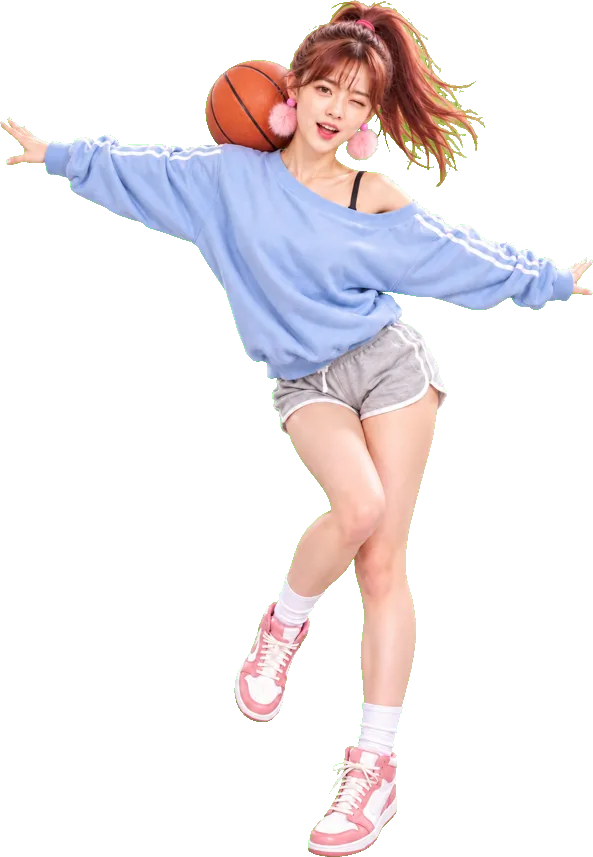
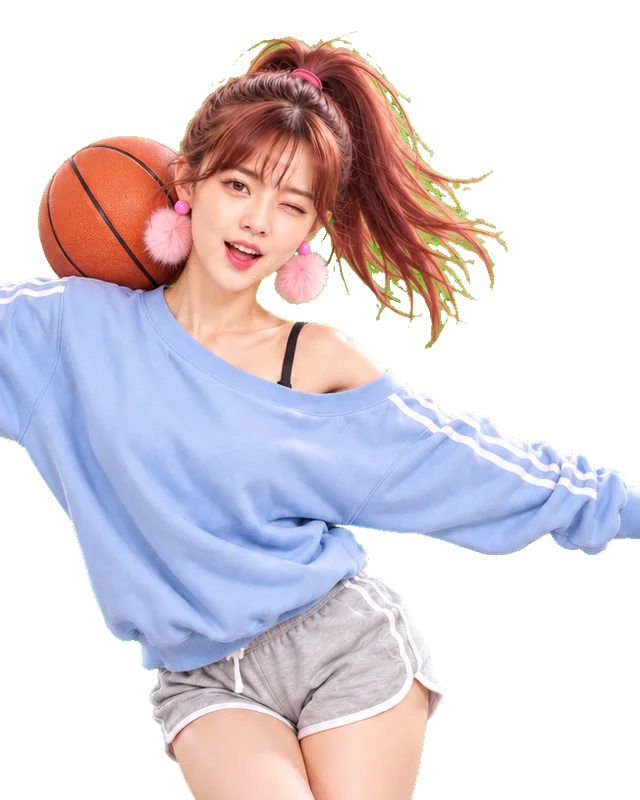
v0.4.4：選角卡改上半身特寫，臉看得清楚

diff --git a/index.html b/index.html
@@ -360,14 +360,15 @@
     .selBar .big { padding: 9px; font-size: 18px; } .selBar .big.sec { padding: 9px 14px; }
   }
 
-  /* ===== 選角卡：上面是真人風全身照（角色色底＋集中線、位置標籤），下面是名字、大招、技能 ===== */
+  /* ===== 選角卡：上面是真人風上半身特寫（角色色底＋集中線、位置標籤），下面是名字、大招、技能 ===== */
   #grid { grid-template-columns: repeat(4, 1fr); gap: 10px; }
   #grid .ch { display: flex; flex-direction: column; align-items: stretch; gap: 0; padding: 0; overflow: hidden; border-radius: 18px; }
-  #grid .ch .pic { position: relative; height: 200px; overflow: hidden; background: radial-gradient(circle at 50% 38%, color-mix(in srgb, var(--cc) 45%, #fff), var(--cc) 75%); }
+  #grid .ch .pic { position: relative; aspect-ratio: 4 / 5; overflow: hidden; background: radial-gradient(circle at 50% 38%, color-mix(in srgb, var(--cc) 45%, #fff), var(--cc) 75%); }
   #grid .ch .pic::before { content: ''; position: absolute; inset: 0; background: repeating-conic-gradient(from 0deg at 50% 38%, #ffffff26 0 3deg, transparent 3deg 11deg); }
   #grid .ch .pic::after { content: ''; position: absolute; left: 0; right: 0; bottom: 0; height: 30%; background: linear-gradient(transparent, #0000002e); }
-  #grid .ch .pic img { position: absolute; left: 0; top: 6px; width: 100%; height: calc(100% - 2px); object-fit: contain; object-position: 50% 100%; border-radius: 0; background: none; filter: drop-shadow(0 6px 8px #0004); transition: transform .2s; transform-origin: 50% 100%; z-index: 1; }
-  #grid .ch:hover .pic img, #grid .ch.sel .pic img { transform: scale(1.05); }
+  #grid .ch .pic img { position: absolute; left: 0; top: 0; width: 100%; height: 100%; object-fit: cover; object-position: 50% 0; border-radius: 0; background: none; filter: drop-shadow(0 6px 8px #0004); transition: transform .2s; transform-origin: 50% 100%; z-index: 1; }
+  #grid .ch:hover .pic img, #grid .ch.sel .pic img { transform: scale(1.04); }
+  #grid .ch .pic img { transform-origin: 50% 30%; }
   #grid .ch .pos { position: absolute; top: 8px; left: 8px; z-index: 2; background: #1d1d1fd9; color: #fff; font-weight: 900; font-size: 11px; padding: 2px 8px; border-radius: 8px; letter-spacing: 1px; }
   #grid .ch .info { padding: 7px 10px 10px; }
   #grid .ch .nm { font-size: 18px; }
@@ -375,7 +376,6 @@
   #grid .ch .badge { top: 8px; left: auto; right: 8px; z-index: 3; }
   @media (max-width: 760px) and (orientation: portrait) {
     #grid { grid-template-columns: repeat(2, 1fr); gap: 8px; }
-    #grid .ch .pic { height: 170px; }
     #grid .ch .nm { font-size: 16px; } #grid .ch .nm small { display: block; margin: 0; }
     #grid .ch .d { font-size: 11px; }
   }
@@ -383,8 +383,8 @@
   @media (orientation: landscape) and (max-height: 560px) {
     #grid { grid-template-columns: repeat(8, 1fr); gap: 5px; }
     #grid .ch { display: block; height: calc(100vh - 128px - env(safe-area-inset-bottom)); min-height: 180px; border-radius: 12px; }
-    #grid .ch .pic { position: absolute; inset: 0; height: auto; }
-    #grid .ch .pic img { float: none; width: 100%; height: calc(100% - 46px); top: 4px; margin: 0; }
+    #grid .ch .pic { position: absolute; inset: 0; height: auto; aspect-ratio: auto; }
+    #grid .ch .pic img { float: none; width: 100%; height: calc(100% - 40px); top: 0; margin: 0; }
     #grid .ch .info { position: absolute; left: 0; right: 0; bottom: 0; z-index: 2; padding: 3px 5px 5px; background: linear-gradient(transparent, #fffffff2 30%); }
     #grid .ch .nm { font-size: 13px; line-height: 1.15; } #grid .ch .nm small { display: none; }
     #grid .ch .spn { font-size: 9px; padding: 1px 5px; margin: 1px 0 0; } #grid .ch .skn, #grid .ch .d, #grid .ch .st { display: none; }
@@ -738,6 +738,6 @@
 <script type="importmap">
 {"imports":{"three":"./vendor/three/build/three.module.min.js","three/addons/":"./vendor/three/examples/jsm/"}}
 </script>
-<script type="module" src="js/main.js?v=0.4.3"></script>
+<script type="module" src="js/main.js?v=0.4.4"></script>
 </body>
 </html>

diff --git a/js/op.js b/js/op.js
@@ -1,6 +1,6 @@
 // 開場 OP：真人風劇照（tools/gen_op.sh 用 GPT 畫，op/*.webp）＋程式運鏡、字幕、聯名卡、片名
 // 每一格自己算畫面（不用 CSS 動畫），跳過、重看、測試跳到某一秒都一樣
-import { playTrack } from './music.js?v=0.4.3';
+import { playTrack } from './music.js?v=0.4.4';
 
 // d 秒數；oy 畫面太寬被裁上下時，往上／往下保留哪裡（%，臉通常在上面）；z 起訖縮放；x 起訖橫移（圖寬 %，直式手機會放大三倍來回掃）；cap 字幕 [大字, 小字]
 // flash 開頭白閃；shake 抖動；brand 聯名卡；vs 對決字；title 片名
@@ -28,7 +28,7 @@ let root, imgs = {}, raf = 0, t0 = 0, playing = false, onEnd = null, lastShot = 
 function build() {
   if (root) return;
   root = $('op');
-  for (const s of SHOTS) if (s.img) { const im = new Image(); im.decoding = 'async'; im.src = `op/${s.img}.webp?v=0.4.3`; imgs[s.img] = im; }
+  for (const s of SHOTS) if (s.img) { const im = new Image(); im.decoding = 'async'; im.src = `op/${s.img}.webp?v=0.4.4`; imgs[s.img] = im; }
   $('opSkip').onclick = () => finish();
   $('opPlay').onclick = () => start();
   $('opNo').onclick = () => { playTrack('theme'); finish(); };

diff --git a/js/court.js b/js/court.js
@@ -1,7 +1,7 @@
 // 球場：可以選「辦公室頂樓」（木地板＋白板籃板＋落地窗城市）或「大橋尾球場」（廟口球場：綠色水泥地、後面是廟）
 // 籃框、籃網兩邊共用；地板、籃板圖案、周圍場景各一組，setCourt() 切換
 import * as THREE from 'three';
-import { scene, rbox, box, cyl, sphere, mat, canvasTex, roundRect, FONT, labelSprite } from './world.js?v=0.4.3';
+import { scene, rbox, box, cyl, sphere, mat, canvasTex, roundRect, FONT, labelSprite } from './world.js?v=0.4.4';
 
 // 尺寸（1 單位 ≈ 角色身高的 0.8）
 export const COURT = { x: 6, z0: 0, z1: 10.5 };            // x 從 -6 到 6，底線 z=0，半場線 z=10.5

diff --git a/js/music.js b/js/music.js
@@ -1,7 +1,7 @@
 // 配樂：使用者給的兩首 mp3。封面、選角、結算放「籃球主題」，比賽中放「籃球音樂」，都循環播放
 // 瀏覽器要有點擊之後才能出聲，所以第一次點畫面時才開始播
 export const music = { on: true, cur: null, want: null };
-const TRACKS = { theme: 'audio/theme.mp3?v=0.4.3', game: 'audio/game.mp3?v=0.4.3' };
+const TRACKS = { theme: 'audio/theme.mp3?v=0.4.4', game: 'audio/game.mp3?v=0.4.4' };
 const el = {};
 function track(name) {
   if (!el[name]) { const a = new Audio(TRACKS[name]); a.loop = true; a.preload = 'auto'; a.volume = name === 'game' ? 0.42 : 0.5; el[name] = a; }

diff --git a/js/fx.js b/js/fx.js
@@ -1,6 +1,6 @@
 // 特效與音效：飄字、彩帶、光柱、地面衝擊波、彈出放大、合成音效
 import * as THREE from 'three';
-import { scene, canvasTex, FONT, cam, V } from './world.js?v=0.4.3';
+import { scene, canvasTex, FONT, cam, V } from './world.js?v=0.4.4';
 
 const fxList = [];   // 每個特效自己有 update(dt) 回傳 false 就移除
 export function updateFx(dt) { for (let i = fxList.length - 1; i >= 0; i--) if (!fxList[i](dt)) fxList.splice(i, 1); }

diff --git a/tools/make_cards.py b/tools/make_cards.py
@@ -1,0 +1,36 @@
+# 選角卡用的上半身特寫：從選角全身照（work/art/real_<人>_card_<人>.png）去背後，裁「頭頂到大約腰／大腿」這段，輸出 4:5
+# 用法：python3 tools/make_cards.py [vivi kui ...]　→ art/<人>_card.webp
+# CUT：(從人的最上緣往下取幾成高度, 水平中心偏移（相對寬）, 額外放大[, 上面先跳過幾成])；舉手持球的人最上緣是球，跳過一點讓臉靠中間
+import sys, os, subprocess
+from PIL import Image
+
+CUT = {
+  'vivi': (0.46, 0.0, 1.05), 'kui': (0.5, 0.0, 1.0), 'jie': (0.42, 0.0, 1.0), 'mi': (0.56, 0.16, 1.0, 0.13),
+  'kevin': (0.45, 0.0, 1.0), 'lin': (0.62, 0.0, 1.0), 'yuan': (0.6, 0.1, 1.0, 0.16), 'hu': (0.5, 0.13, 1.55),
+}
+W, H = 640, 800
+
+def make(k):
+  src, key = f'work/art/real_{k}_card_{k}.png', f'work/art/k_{k}_card_full.png'
+  if not os.path.exists(key):
+    subprocess.run(['python3', 'tools/key_green.py', src, key, '1536'], check=True, capture_output=True)
+  im = Image.open(key).convert('RGBA')   # key_green 已經裁到人的範圍
+  frac, dx, zoom, skip = (*CUT[k], 0)[:4]
+  y0 = int(im.height * skip); h = int(im.height * frac) - y0
+  part = im.crop((0, y0, im.width, y0 + h))
+  bb = part.getbbox() or (0, 0, im.width, h)
+  # 以內容為準，補成 4:5（寬：高），左右置中、上面留一點空
+  cw, ch = bb[2] - bb[0], h
+  if cw / ch > W / H: ch = int(cw * H / W)
+  else: cw = int(ch * W / H)
+  cw, ch = int(cw / zoom), int(ch / zoom)
+  cx = (bb[0] + bb[2]) / 2 + dx * im.width
+  top = y0 - int(ch * 0.04) * (0 if skip else 1)
+  box = (int(cx - cw / 2), top, int(cx + cw / 2), top + ch)
+  out = Image.new('RGBA', (box[2] - box[0], box[3] - box[1]), (0, 0, 0, 0))
+  out.alpha_composite(im.crop((max(0, box[0]), max(0, box[1]), min(im.width, box[2]), min(im.height, box[3]))), (max(0, -box[0]), max(0, -box[1])))
+  out = out.resize((W, H), Image.LANCZOS)
+  out.save(f'art/{k}_card.webp', quality=84, method=6)
+  print(k, f'{os.path.getsize(f"art/{k}_card.webp") // 1024}KB')
+
+for k in (sys.argv[1:] or list(CUT)): make(k)

diff --git a/README.md b/README.md
@@ -24,7 +24,7 @@
 
 - **比賽**：2 分鐘，或先到 21 分的隊伍贏。三分線外進球算 3 分，線內 2 分。時間到平手就打延長賽，下一球得分的贏。
 - **球場**：選角畫面可以選「🏢 頂樓」（辦公室頂樓木地板、落地窗看城市）或「🏮 大橋尾」（廟口球場：綠色水泥地、紅色禁區，籃框後面是福德宮，紅柱、彩繪樑、燕尾脊、雙龍搶珠、石獅、冒煙的香爐，兩旁石長椅、紅燈籠、大榕樹、機車、廟口小吃攤，傍晚天空）。全部程式畫的（`js/court.js` 的 `buildTemple`），`setCourt()` 切換，會記住。
-- **選角卡**：每個人一張真人風全身照，姿勢各不相同（Vivi 秀高跟鞋單指轉球、小葵舉咖啡夾著球走、阿傑推眼鏡、小米三分出手、Kevin 像發表會介紹產品、林語彤壓低胯下運球、元小雨單手把球舉高、胡姬球滾過肩膀眨眼），`tools/gen_real.sh` 的 `card_*` → `art/<人>_card.webp`。電腦 4×2、直式手機 2 欄、橫式手機 8 張瘦長卡一排。
+- **選角卡**：每個人一張真人風上半身特寫（`tools/make_cards.py` 從全身照裁頭到腰、4:5，臉才看得清楚；舉手的人先跳過上面一段），姿勢各不相同（Vivi 秀高跟鞋單指轉球、小葵舉咖啡夾著球走、阿傑推眼鏡、小米三分出手、Kevin 像發表會介紹產品、林語彤壓低胯下運球、元小雨單手把球舉高、胡姬球滾過肩膀眨眼），`tools/gen_real.sh` 的 `card_*` 生全身照 → `make_cards.py` 裁成 `art/<人>_card.webp`。電腦 4×2、直式手機 2 欄、橫式手機 8 張瘦長卡一排。
 - **人數與難度**：選角畫面上方可以切 練習／1v1／2v2／3v3 和簡單／普通／困難（會記住）。1v1 先到 11 分（一樣 2 分鐘），沒有隊友所以傳球鍵不能用。
 - **練習場**：挑 1 個人進去，沒有時間限制、不會結束。右上角面板切換：
   - 「對手：無」自己練投，投進或球滾太久都會直接回到手上，不用清球；
